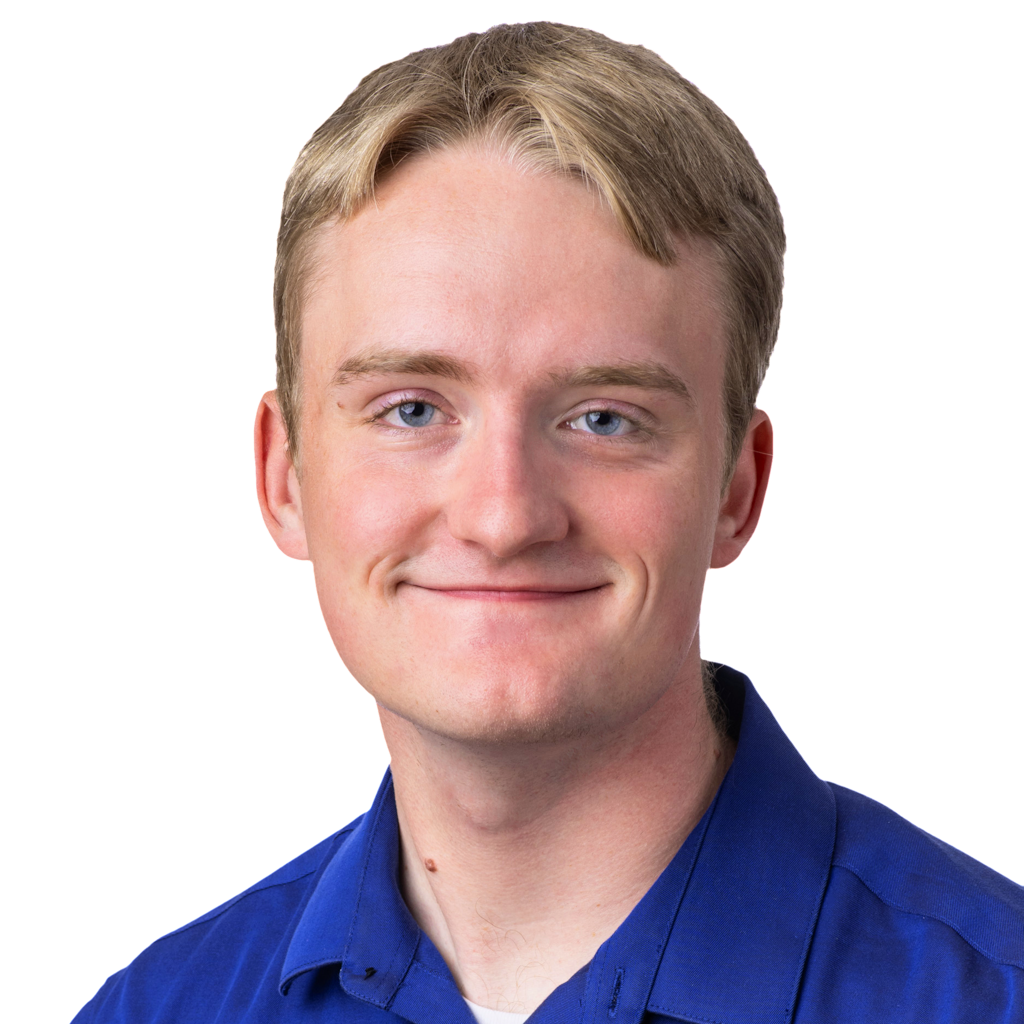
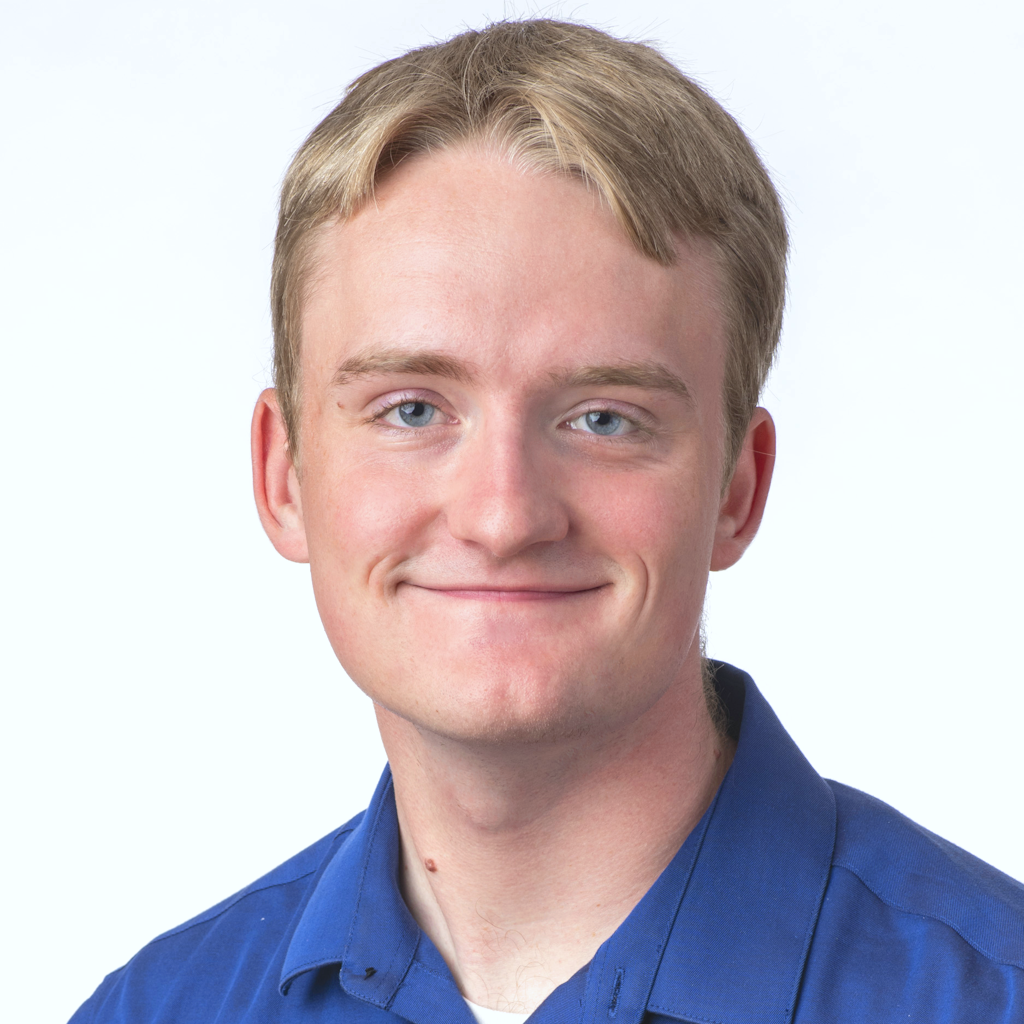
Refine home hero profile

diff --git a/themes/tilatrivia/assets/style.css b/themes/tilatrivia/assets/style.css
@@ -23,22 +23,23 @@
 
     --tk-header-bg: var(--color-green);
     --tk-header-text: var(--color-off-white);
+    --tk-header-hover: var(--color-blue);
     --tk-header-button: var(--color-blue);
 
     --tk-hero-bg: var(--color-blue);
     --tk-hero-text: var(--color-off-white);
     --tk-hero-button: var(--color-green);
 
+    --tk-profile-bg: var(--color-green-light);
     --tk-profile-text: var(--color-off-black);
     --tk-profile-lines: var(--color-blue);
     --tk-profile-buttons: var(--color-green);
 
     --tk-footer-bg: var(--color-blue);
     --tk-footer-text: var(--color-off-white);
-    --tk-footer-link: var(--color-green-light);
-    --tk-footer-link-hover: var(--color-off-white);
+    --tk-footer-link-hover: var(--color-green);
 
-    --tk-content-bg: var(--color-white);
+    --tk-content-bg: var(--color-off-white);
     --tk-content-text: var(--color-off-black);
 
     --tk-link: var(--color-blue);
@@ -63,11 +64,12 @@ body {
 
 a {
     color: var(--tk-link);
+    text-decoration: none;
 }
 
 a:hover {
-    text-decoration: underline;
     color: var(--tk-link-hover);
+    text-decoration: none;
 }
 
 h1 {
@@ -167,26 +169,29 @@ header > .container {
 }
 
 header a {
-    display: block;
-    color: var(--tk-header-text);
     text-decoration: none;
-    text-shadow: 0 5px 5px rgba(0, 0, 0, 0.15);
 }
 
 header h1 {
     font-weight: 900;
-    font-size: 46px;
+    font-size: 52px;
     line-height: 0.9;
+    color: var(--tk-header-text);
+    position: relative;
+}
+
+header a:hover h1::after {
+    display: block;
+    content: '';
+    position: absolute;
+    width: 100%;
+    height: var(--tk-layout-border-size);
+    background-color: var(--tk-header-hover);
+    bottom: -0.5rem;
 }
 
 header li {
     list-style: none;
-}
-
-header a:hover {
-    color: var(--tk-header-text);
-    text-decoration: none;
-    text-shadow: 0 7px 8px rgba(0, 0, 0, 0.2);
 }
 
 header .buttons {
@@ -267,13 +272,24 @@ header .button:hover {
 .profile {
     display: flex;
     flex-direction: column;
-    justify-content: stretch;
+    justify-content: center;
+    gap: 2rem;
+    padding: 2rem;
+    background-color: var(--tk-profile-bg);
 }
 
-@media screen and (min-width: 46rem) {
+@media screen and (min-width: 52rem) {
     .profile {
         flex-direction: row;
+        padding: 4rem;
     }
+}
+
+.profile > img {
+    max-width: 24rem;
+    object-fit: cover;
+    aspect-ratio: 1 / 1;
+    border: var(--tk-layout-border-size) solid var(--tk-profile-lines);
 }
 
 .profile > div {
@@ -282,66 +298,37 @@ header .button:hover {
     justify-content: flex-end;
 }
 
+.profile-text-container {
+    padding-bottom: 2rem;
+}
+
 .profile-greeting {
     font-weight: 500;
     font-size: 24px;
-    line-height: 0.8;
     margin: 0;
+    margin-bottom: 1rem;
 }
 
 .profile-title {
     font-family: Bitter, serif;
     font-weight: 900;
     font-size: 64px;
-    line-height: 1.2;
+    line-height: 0.9;
     margin: 0;
+    margin-bottom: 0.7rem;
+    position: relative;
+}
+
+.profile-title::before {
+    display: block;
+    content: '';
+    background-color: var(--color-blue-light);
 }
 
 .profile-subtitle {
     font-weight: 500;
     font-size: 36px;
-    line-height: 0.7;
     margin: 0;
-}
-
-.profile-image-container {
-    flex: 0.4;
-    display: flex;
-    align-items: flex-end;
-    border-bottom: var(--tk-layout-border-size) solid var(--tk-profile-lines);
-}
-
-.profile-image-container > img {
-    width: 24rem;
-    height: 24rem;
-    object-fit: cover;
-}
-
-.profile-content-container {
-    flex: 0.6;
-}
-
-.profile-text-container {
-    padding-bottom: 1.5rem;
-}
-
-.profile-button-container {
-    display: flex;
-}
-
-.profile-button-container .buttons {
-    border-left: var(--tk-layout-border-size) solid var(--tk-profile-lines);
-    border-top: var(--tk-layout-border-size) solid var(--tk-profile-lines);
-    border-right: var(--tk-layout-border-size) solid var(--tk-profile-lines);
-    padding-left: 1rem;
-    padding-right: 1rem;
-    padding-top: 1rem;
-}
-
-.profile-button-container span {
-    flex: 1;
-    border-bottom: var(--tk-layout-border-size) solid var(--tk-profile-lines);
-
 }
 
 
@@ -350,7 +337,6 @@ header .button:hover {
 main {
     background-color: var(--tk-content-bg);
     color: var(--tk-content-text);
-    box-shadow: inset rgba(0, 0, 0, 0.2) 0px 10px 15px -3px, rgba(0, 0, 0, 0.1) 0px 4px 6px -2px;
 }
 
 main>div>*:first-child {

diff --git a/themes/tilatrivia/layouts/index.html b/themes/tilatrivia/layouts/index.html
@@ -1,55 +1,30 @@
 {{ define "main" }}
 {{ $page := . }}
-<div class="hero">
-    {{/*  <div class="container">
-        <div class="profile">
-            <img src="./truman-kautzman-headshot-square.jpg" />
-            <div>
-                <h2 class="profile-title underline">Truman Kautzman</h2>
-                <h3 class="profile-subtitle">Software Engineer and Designer</h3>
-                <div class="buttons">
-                    <a href="mailto:tilatrivia@gmail.com" target="_blank" class="button button-accent">
-                        <img src="./social-email.svg" />
-                    </a>
-                    <a href="https://github.com/tilatrivia/" target="_blank" class="button button-accent">
-                        <img src="./social-github.svg" />
-                    </a>
-                </div>
-            </div>
+<div class="profile">
+    <img src="./truman-kautzman.png" />
+    <div class="profile-content-container">
+        <div class="profile-text-container">
+            <p class="profile-greeting">Hello, I am</p>
+            <p class="profile-title">Truman Kautzman</p>
+            <p class="profile-subtitle">I design and build software.</p>
         </div>
-    </div>  */}}
+
+        <div class="buttons">
+            <a href="mailto:tilatrivia@gmail.com" target="_blank" class="button button-accent">
+                <img src="./social-email.svg" />
+            </a>
+            <a href="https://github.com/tilatrivia/" target="_blank" class="button button-accent">
+                <img src="./social-github.svg" />
+            </a>
+            <a href="https://github.com/tilatrivia/" target="_blank" class="button button-accent">
+                <img src="./social-github.svg" />
+            </a>
+        </div>
+    </div>
 </div>
 
 <main>
     <div class="container">
-        <div class="profile">
-            <div class="profile-image-container">
-                <img src="./truman-kautzman.png" />
-            </div>
-            <div class="profile-content-container">
-                <div class="profile-text-container">
-                    <p class="profile-greeting">Hello, I am</p>
-                    <p class="profile-title">Truman Kautzman</p>
-                    <p class="profile-subtitle">I Design and Build Software</p>
-                </div>
-
-                <div class="profile-button-container">
-                    <div class="buttons">
-                        <a href="mailto:tilatrivia@gmail.com" target="_blank" class="button button-accent">
-                            <img src="./social-email.svg" />
-                        </a>
-                        <a href="https://github.com/tilatrivia/" target="_blank" class="button button-accent">
-                            <img src="./social-github.svg" />
-                        </a>
-                        <a href="https://github.com/tilatrivia/" target="_blank" class="button button-accent">
-                            <img src="./social-github.svg" />
-                        </a>
-                    </div>
-                    <span></span>
-                </div>
-            </div>
-            
-        </div>
 
         {{ .Content }}
 
